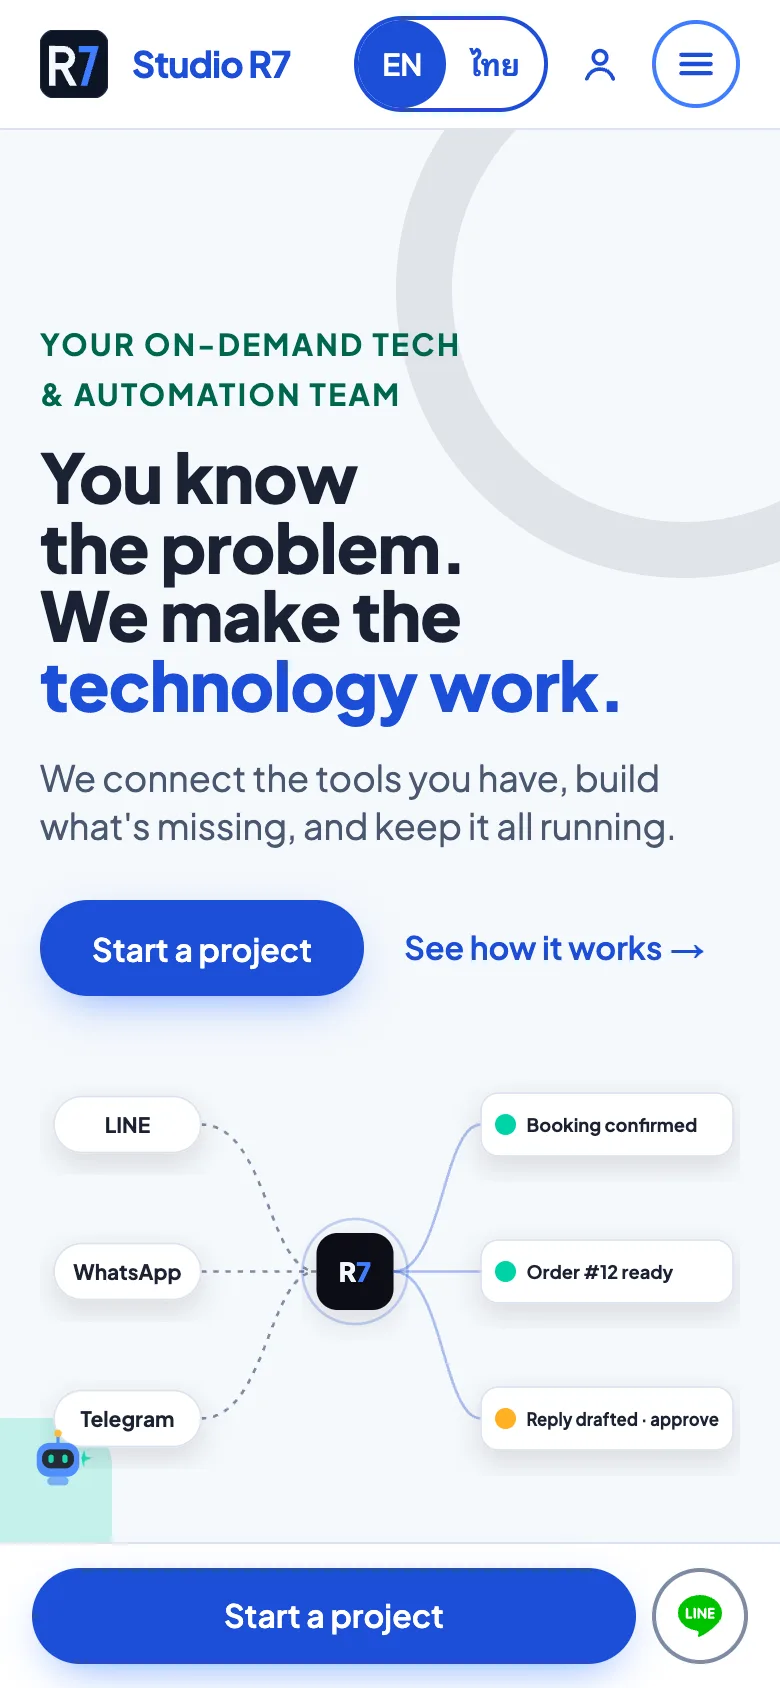
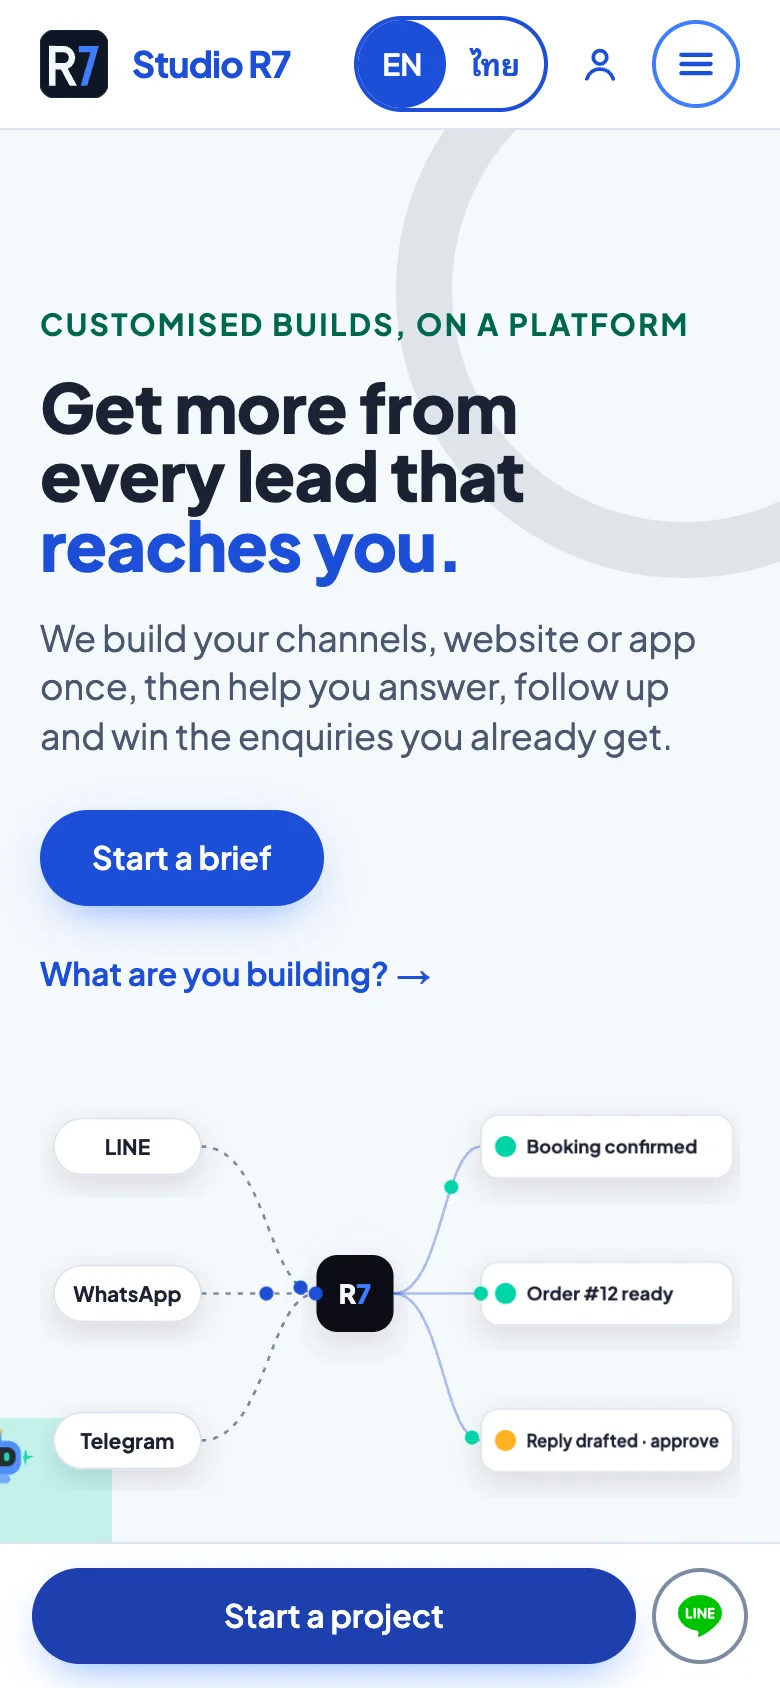
content: catch-up pass for 18 Nov (Studio R7, Dee Wan Nee, PaiTor)
Studio R7: build-once offer now live (new home, pricing and brief step 1
screenshots and text), Personal Brand page added, facts re-measured
(879 commits, 72 sitemap pages, 272 test files), approvals now built,
engine status counts.

Dee Wan Nee: facts re-measured on the build branch (222 commits, 77 screens,
46 migrations / 47 SQL tests, 3 x 3,573 keys); new "Added in the latest
build" list (role menus, follow and save, Palate posts, event menus,
referrals, deal results).

PaiTor: facts re-measured (296 commits, 43 dealer screens, 27 papers,
35 SQL tests, about 100 tables); live area search and dealers page with
screenshots; banner presale described as built but not taking payments;
"free" claims corrected to match the live dealers page.

diff --git a/src/content/paitor.ts b/src/content/paitor.ts
@@ -30,13 +30,13 @@ export const paitor: Project = {
     "Playwright",
   ],
   facts: [
-    { value: "204", label: "commits across all branches" },
+    { value: "296", label: "commits across all branches" },
     { value: "17", label: "brand characters, drawn as layered vector art" },
-    { value: "36", label: "dealer back-office screens designed as working HTML" },
-    { value: "26", label: "research papers in the product library" },
+    { value: "43", label: "dealer back-office screens and states designed as working HTML" },
+    { value: "27", label: "research papers in the product library" },
   ],
   honest:
-    "The design-kit screens on this page are marked \"concept art\" because they are the approved design, drawn before the build. PaiTor Pro is built behind a switch on its own branches and is not released. Dealer screens use sample data and sample prices, labelled on every screen. The Chinese version is machine-drafted and waiting for a native review.",
+    "The design-kit screens on this page are marked \"concept art\" because they are the approved design, drawn before the build. The first stages of PaiTor Pro (business accounts, stock, the car editor and import) are now in the main code behind a switch, and are not released. Banner ads are built end to end but take no real payments yet. Dealer screens use sample data and sample prices, labelled on every screen. The Chinese version is machine-drafted and waiting for a native review.",
   chapters: [
     {
       id: "idea",
@@ -53,7 +53,7 @@ export const paitor: Project = {
             "The live home page shows the result before it explains the tool: a real-looking listing on a phone, with the price on a plate, the declarations in green, and the share images beside it.",
             "No sign-up to start. The draft stays on the seller's phone until they choose to publish.",
           ],
-          points: ["Thai first, with English and Chinese", "Free for owners, car yards and dealers", "The price is the seller's; the tool never suggests one"],
+          points: ["English, Thai and Chinese; the visitor's choice is remembered", "Free for private sellers", "The price is the seller's; the tool never suggests one"],
         },
         {
           type: "shot",
@@ -62,6 +62,16 @@ export const paitor: Project = {
           title: "Finding a car",
           body: [
             "Buyers filter by what matters to them, save cars, compare them, and come back to the same place in the list. Badges only say what was actually checked: \"Owner declared\", never a vague \"verified\".",
+          ],
+        },
+        {
+          type: "shot",
+          image: "paitor/live-cars-phone",
+          frame: "phone",
+          title: "Cars near you, without tracking you",
+          body: [
+            "A \"Where?\" box takes a postcode or district, or one tap on Near me, and lists the nearest cars first within 5, 10, 25 or 50 km. The location is used for that one search and never saved or logged, and the page says so.",
+            "On a phone, a tab bar keeps the four things people come for one thumb away: browse, saved cars, sell and account.",
           ],
         },
       ],
@@ -107,6 +117,16 @@ export const paitor: Project = {
       blocks: [
         {
           type: "shot",
+          image: "paitor/live-dealers",
+          frame: "browser",
+          title: "A front door for dealers",
+          body: [
+            "A live page for car yards, dealerships and car brands: what PaiTor does for them, founding terms for early listers, and a short form to start. Every car can be listed free until 1 April 2027.",
+            "Stock comes in two ways: the dealer imports their own sheet in PaiTor Pro, or sends the list and the team loads it with them.",
+          ],
+        },
+        {
+          type: "shot",
           image: "paitor/pro-today",
           frame: "browser",
           title: "Today: what needs you",
@@ -141,7 +161,7 @@ export const paitor: Project = {
         {
           type: "gallery",
           title: "Paid placement, clearly labelled",
-          intro: "Listings stay free. Dealers can pay to boost cars or place a banner, and every paid spot is marked as an ad with a \"why am I seeing this\" explanation.",
+          intro: "Dealers can pay to boost cars or place a banner, and every paid spot is marked as an ad with a \"why am I seeing this\" explanation. Banners are sold by postcode, province, region or the whole country, and a sold slot stays sold. The full purchase is built, from picking a slot to payment, tax invoice and review; it is not taking real payments yet.",
           frame: "browser",
           columns: 2,
           items: [
@@ -247,7 +267,7 @@ export const paitor: Project = {
           type: "schema",
           title: "The data model, simplified",
           intro: "The car catalogue on top, a listing in the middle, and what buyers do with it below. An arrow reads \"belongs to\".",
-          note: "Simplified from the Postgres schema. The real database has about 70 tables; fields and access rules are left out here.",
+          note: "Simplified from the Postgres schema. The real database has about 100 tables; fields and access rules are left out here.",
           columns: 3,
           entities: [
             { id: "make", name: "Make", note: "Toyota, Honda…", col: 0, row: 0 },
@@ -275,7 +295,7 @@ export const paitor: Project = {
           type: "list",
           title: "What is tested, and how",
           items: [
-            { title: "Database rules tested as SQL", body: "22 SQL test files cover who can read and write what, search, alerts, offers and chat, run against a real Postgres engine in memory." },
+            { title: "Database rules tested as SQL", body: "35 SQL test files cover who can read and write what, search, alerts, offers and chat, run against a real Postgres engine in memory." },
             { title: "Chat under stress", body: "Buyer and seller chat has chaos, soak and load test scripts, plus web push notifications." },
             { title: "Search alerts and price history", body: "A saved search sends a daily alert, and every price change is kept." },
             { title: "A screenshot audit", body: "One script captures every page at desktop and phone width in three languages, so a design review looks at the real thing." },

diff --git a/src/content/studio-r7.ts b/src/content/studio-r7.ts
@@ -6,7 +6,7 @@ export const studioR7: Project = {
   kind: "Agency website, free apps and client platform",
   tagline: "You know the problem. We make the technology work.",
   summary:
-    "The studio's own site, built as a product: a bilingual website, a guided project brief, two free business apps, a client delivery portal and the first parts of a typed growth engine.",
+    "The studio's own site, built as a product: a bilingual website with a build-once offer, a guided project brief, two free business apps, a client back end and the first parts of a typed growth engine.",
   status: "Live",
   period: "October to November 2026",
   url: { label: "studior7.com", href: "https://studior7.com/en" },
@@ -29,13 +29,13 @@ export const studioR7: Project = {
     "Lighthouse CI",
   ],
   facts: [
-    { value: "530", label: "commits in the repo" },
-    { value: "82", label: "public pages in the sitemap (41 in English, 41 in Thai)" },
-    { value: "164", label: "test files" },
+    { value: "879", label: "commits in the repo" },
+    { value: "72", label: "public pages in the sitemap (36 in English, 36 in Thai)" },
+    { value: "272", label: "test files" },
     { value: "2", label: "free apps, live" },
   ],
   honest:
-    "Studio R7 publishes no client case studies yet, and the site says so. Everything on this page is the studio's own product. The client portal is designed and partly built, the Thai copy is waiting for a native review, and most of the growth engine is planned, not shipped.",
+    "Studio R7 publishes no client case studies yet, and the site says so. Everything on this page is the studio's own product. The client back end is built but open only to signed-in clients, the Thai copy is waiting for a native review, and most of the growth engine is planned, not shipped.",
   chapters: [
     {
       id: "idea",
@@ -49,8 +49,8 @@ export const studioR7: Project = {
           frame: "browser",
           title: "A home page that leads with the customer's problem",
           body: [
-            "The first screen says what the studio does in one sentence and shows it in one picture: LINE, WhatsApp and Telegram on the left, booked orders and approved replies on the right, Studio R7 in the middle.",
-            "There is one main action, Start a project, and one quiet link for people who want to read first.",
+            "The first screen says what the studio does in one sentence and shows it in one picture: LINE, WhatsApp and Telegram on the left, confirmed bookings and replies waiting for approval on the right, Studio R7 in the middle.",
+            "The promise is about results, not software: more from every lead that already reaches the business. There is one main action, Start a brief, and one quiet link that asks what the visitor is building.",
           ],
           points: ["English and Thai from the first commit", "Phone and desktop are designed separately", "No stock photos of people shaking hands"],
         },
@@ -60,8 +60,18 @@ export const studioR7: Project = {
           frame: "browser",
           title: "Pricing that explains itself",
           body: [
-            "Three ways to work with the studio sit side by side: a single fixed-price job, the monthly platform, or a custom project. A visitor picks hubs and a tier and sees the price change as they go.",
-            "All prices come from one configuration file and one pure function, so the page, the brief and the quote can never disagree.",
+            "Build once, then choose how it keeps running. The build is paid once; a care plan keeps it hosted and updated, or the platform adds automation per user. Each build comes in three tiers, and every price includes VAT.",
+            "Every price comes from one price book that the studio approves in its own admin, so the page, the brief and the quote can never disagree.",
+          ],
+        },
+        {
+          type: "shot",
+          image: "studio-r7/live-personal-brand",
+          frame: "browser",
+          title: "One offer, packaged: Personal Brand",
+          body: [
+            "For founders and consultants who sell on their own name: a brand, a website with its own private admin, the chat channels and a simple sales process, built once.",
+            "Three tiers of the same system, so a client starts small and upgrades without rebuilding. The accounts and the domain stay in the client's name.",
           ],
         },
         {
@@ -95,7 +105,7 @@ export const studioR7: Project = {
             {
               image: "studio-r7/intake-1-phone",
               title: "What would you like to do?",
-              body: "Four plain choices: a single job, the platform, something custom, or technology for equity. Not sure is a valid answer.",
+              body: "Three plain choices: a single fixed-price job, a care plan or the platform, or a build such as an industry pack. Not sure is a valid answer.",
             },
             {
               image: "studio-r7/intake-2-phone",
@@ -269,7 +279,7 @@ export const studioR7: Project = {
         {
           type: "gallery",
           title: "Designs for what comes next",
-          intro: "Mock-ups, not built yet: approvals and the email a client receives.",
+          intro: "The first designs for approvals and the request email. Approvals tied to a version are now built in the client back end; the email is still a design.",
           frame: "browser",
           columns: 2,
           items: [
@@ -292,7 +302,7 @@ export const studioR7: Project = {
           title: "The engine map",
           body: [
             "Every block, what it needs before it can be built, who calls whom at run time, and where each one stands today. The dependency diagrams in the docs are generated from the code, and the build fails if they drift.",
-            "Most blocks are still planned. The map shows that plainly: built, in progress and not started each have their own state.",
+            "Most blocks are still planned. The map shows that plainly: today 2 are built, 1 is in review, 9 are being built and 24 are planned.",
           ],
           points: ["36 blocks, each with its own written dossier", "Diagrams generated from code; the build fails if they drift", "A cost ledger and rate card so every AI call has a price"],
         },

diff --git a/src/content/dee-wan-nee.ts b/src/content/dee-wan-nee.ts
@@ -30,10 +30,10 @@ export const deeWanNee: Project = {
     "Playwright",
   ],
   facts: [
-    { value: "196", label: "commits in the repo" },
-    { value: "69", label: "screens across the public site, admin and LINE apps" },
-    { value: "41", label: "database migrations, with 42 SQL test files" },
-    { value: "3 × 3,117", label: "languages × translated text keys, kept in step" },
+    { value: "222", label: "commits in the repo" },
+    { value: "77", label: "screens across the public site, admin and LINE apps" },
+    { value: "46", label: "database migrations, with 47 SQL test files" },
+    { value: "3 × 3,573", label: "languages × translated text keys, kept in step" },
   ],
   honest:
     "Dee Wan Nee has not opened to the public yet. The diner and staff apps run inside LINE and need a LINE login, so this page shows the public site, the example pages and the brand, and describes the in-LINE flows in words. The example restaurant and chef are made up and labelled so on the live site.",
@@ -131,6 +131,19 @@ export const deeWanNee: Project = {
             "The profile shown is an example with a made-up chef.",
           ],
         },
+        {
+          type: "list",
+          title: "Added in the latest build",
+          intro: "Built and tested in the second half of November, ahead of opening. None of it is public yet.",
+          items: [
+            { title: "\"Who are you?\" in LINE", body: "A new friend picks Foodie, Restaurant or Chef and pro, and gets a short menu made for that role. A restaurant owner finds and adds their place in one to three taps." },
+            { title: "Follow and save", body: "Diners save restaurants and follow chefs, then see their deals and posts in one Following feed. Follows are private: no public counts, no likes." },
+            { title: "Posts on Palate", body: "Chefs post a few words and up to six photos. Early posts are checked by a person first, and anyone can report a post without signing in." },
+            { title: "Event menus", body: "Restaurants set up set menus for events: price per person, allergens, seats per date and a refund rule. They cannot be published until payments are switched on." },
+            { title: "Restaurants refer restaurants", body: "A restaurant shares its link, and when the place it brought in publishes a first deal, both get a month of lower fees, counted and applied automatically." },
+            { title: "Deal results", body: "Owners see, per deal, how many vouchers were claimed, used and left over across 7, 30 and 90 days." },
+          ],
+        },
       ],
     },
     {
@@ -226,7 +239,7 @@ export const deeWanNee: Project = {
           type: "list",
           title: "What keeps it honest",
           items: [
-            { title: "Security rules in the database itself", body: "Access is decided by row-level security in Postgres, not by the app alone. A diner, a staff member, an owner and an admin each see only what is theirs, and 42 SQL test files check it." },
+            { title: "Security rules in the database itself", body: "Access is decided by row-level security in Postgres, not by the app alone. A diner, a staff member, an owner and an admin each see only what is theirs, and 47 SQL test files check it." },
             { title: "Ledgers that only grow", body: "Redemptions and reward points are written to append-only ledgers. A repeated scan cannot be counted twice." },
             { title: "Exact maths for deals", body: "The deal planner works in exact fractions, with a set of known-answer test cases, so a restaurant is never shown a rounded-off profit." },
             { title: "Search engines get every page", body: "A test fails the build if any public page is missing from the sitemap in any of the three languages." },

diff --git a/src/content/apps.ts b/src/content/apps.ts
@@ -447,7 +447,7 @@ export const apps: App[] = [
             intro: "Shown on a phone, where most visitors meet it.",
             frame: "phone",
             steps: [
-              { image: "studio-r7/intake-1-phone", title: "What would you like to do?", body: "Four plain choices: a single job, the platform, something custom, or technology for equity. Not sure is a valid answer." },
+              { image: "studio-r7/intake-1-phone", title: "What would you like to do?", body: "Three plain choices: a single fixed-price job, a care plan or the platform, or a build such as an industry pack. Not sure is a valid answer." },
               { image: "studio-r7/intake-2-phone", title: "Which job would you like?", body: "Fixed, one-off prices are shown right on the options, so there is no surprise later." },
               { image: "studio-r7/intake-3-phone", title: "What is it for?", body: "One line is enough. The example text shows the level of detail that helps." },
               { image: "studio-r7/intake-4-phone", title: "How should we reach you?", body: "LINE, WhatsApp, Telegram or email. The form only asks for what is needed to reply." },
